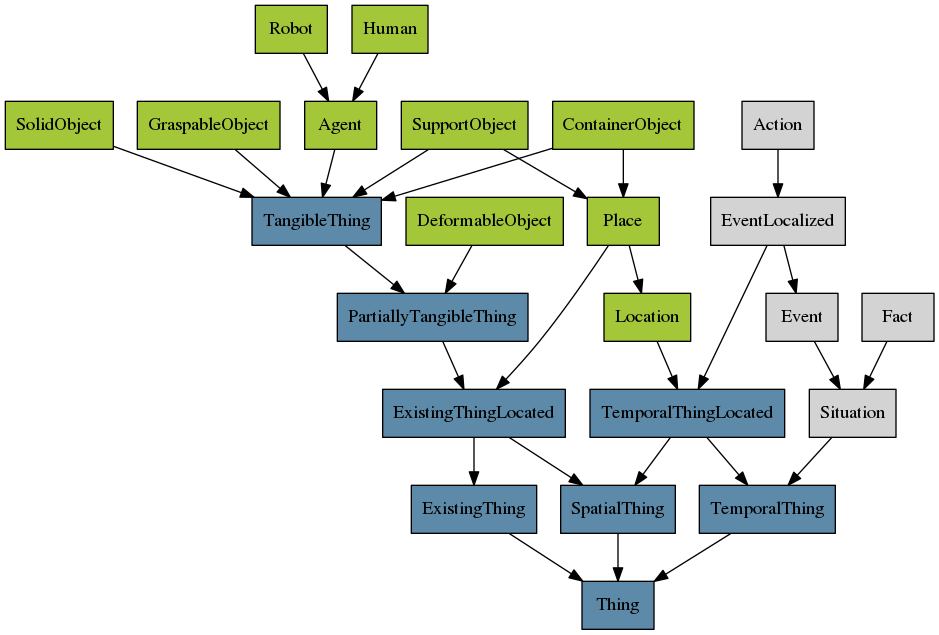
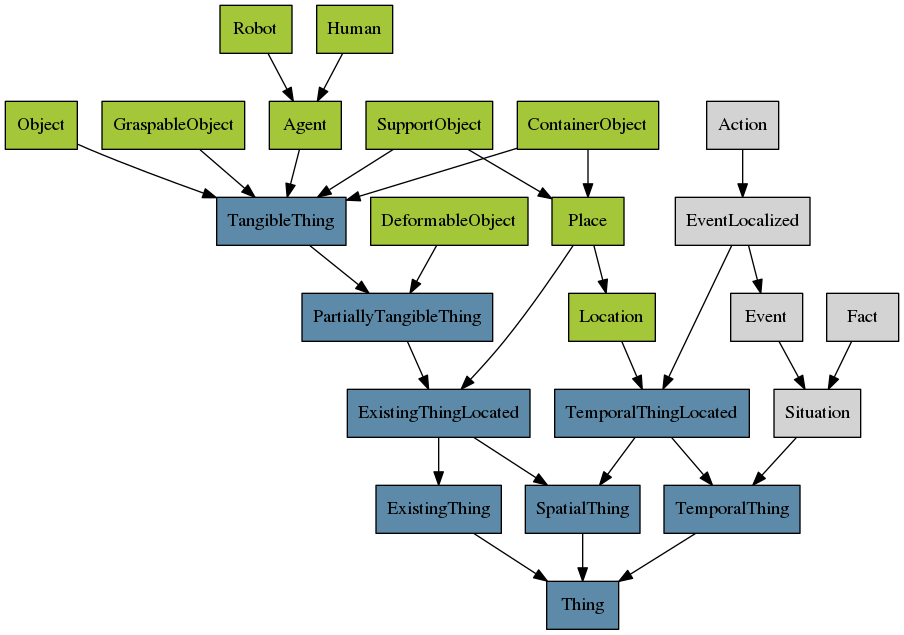
update classes and isontop

diff --git a/scripts/ontologenius_reader_node.py b/scripts/ontologenius_reader_node.py
@@ -43,7 +43,7 @@ class OntologeniusReaderNode(object):
         """ Handle the query """
         try:
             query_tokens = req.query.split(",")
-            first_variable = query_tokens[0].split(" ")[0]
+            #first_variable = query_tokens[0].split(" ")[0]
             query = req.query
             result_nodes = []
             if len(query_tokens) > 1:
@@ -129,15 +129,15 @@ class OntologeniusReaderNode(object):
                     del self.relations[situation.subject+"isInside"+situation.object]
         elif situation.predicate == "on":
             if not situation.is_finished():
-                if situation.subject+"isOn"+situation.object not in self.relations:
-                    rospy.loginfo("add: "+situation.subject+" isOn "+situation.object)
-                    self.ontologenius_client.feeder.addObjectProperty(situation.subject, "isOn", situation.object)
-                    self.relations[situation.subject+"isOn"+situation.object] = True
+                if situation.subject+"isOnTop"+situation.object not in self.relations:
+                    rospy.loginfo("add: "+situation.subject+" isOnTop "+situation.object)
+                    self.ontologenius_client.feeder.addObjectProperty(situation.subject, "isOnTop", situation.object)
+                    self.relations[situation.subject+"isOnTop"+situation.object] = True
             else:
-                if situation.subject+"isOn"+situation.object in self.relations:
-                    rospy.loginfo("remove: "+situation.subject+" isOn "+situation.object)
-                    self.ontologenius_client.feeder.removeObjectProperty(situation.subject, "isOn", situation.object)
-                    del self.relations[situation.subject+"isOn"+situation.object]
+                if situation.subject+"isOnTop"+situation.object in self.relations:
+                    rospy.loginfo("remove: "+situation.subject+" isOnTop "+situation.object)
+                    self.ontologenius_client.feeder.removeObjectProperty(situation.subject, "isOnTop", situation.object)
+                    del self.relations[situation.subject+"isOnTop"+situation.object]
         elif situation.predicate == "close":
             if not situation.is_finished():
                 if situation.subject+"isCloseTo"+situation.object not in self.relations:

diff --git a/README.md b/README.md
@@ -29,7 +29,7 @@ The ontology used to describe Underworlds entities is adapted from [ORO-commonse
 * isFocusOf
 * isHeldBy
 * isInside
-* isOn
+* isOnTop
 * isReachableBy
 * isRightOf
 * isLeftOf
